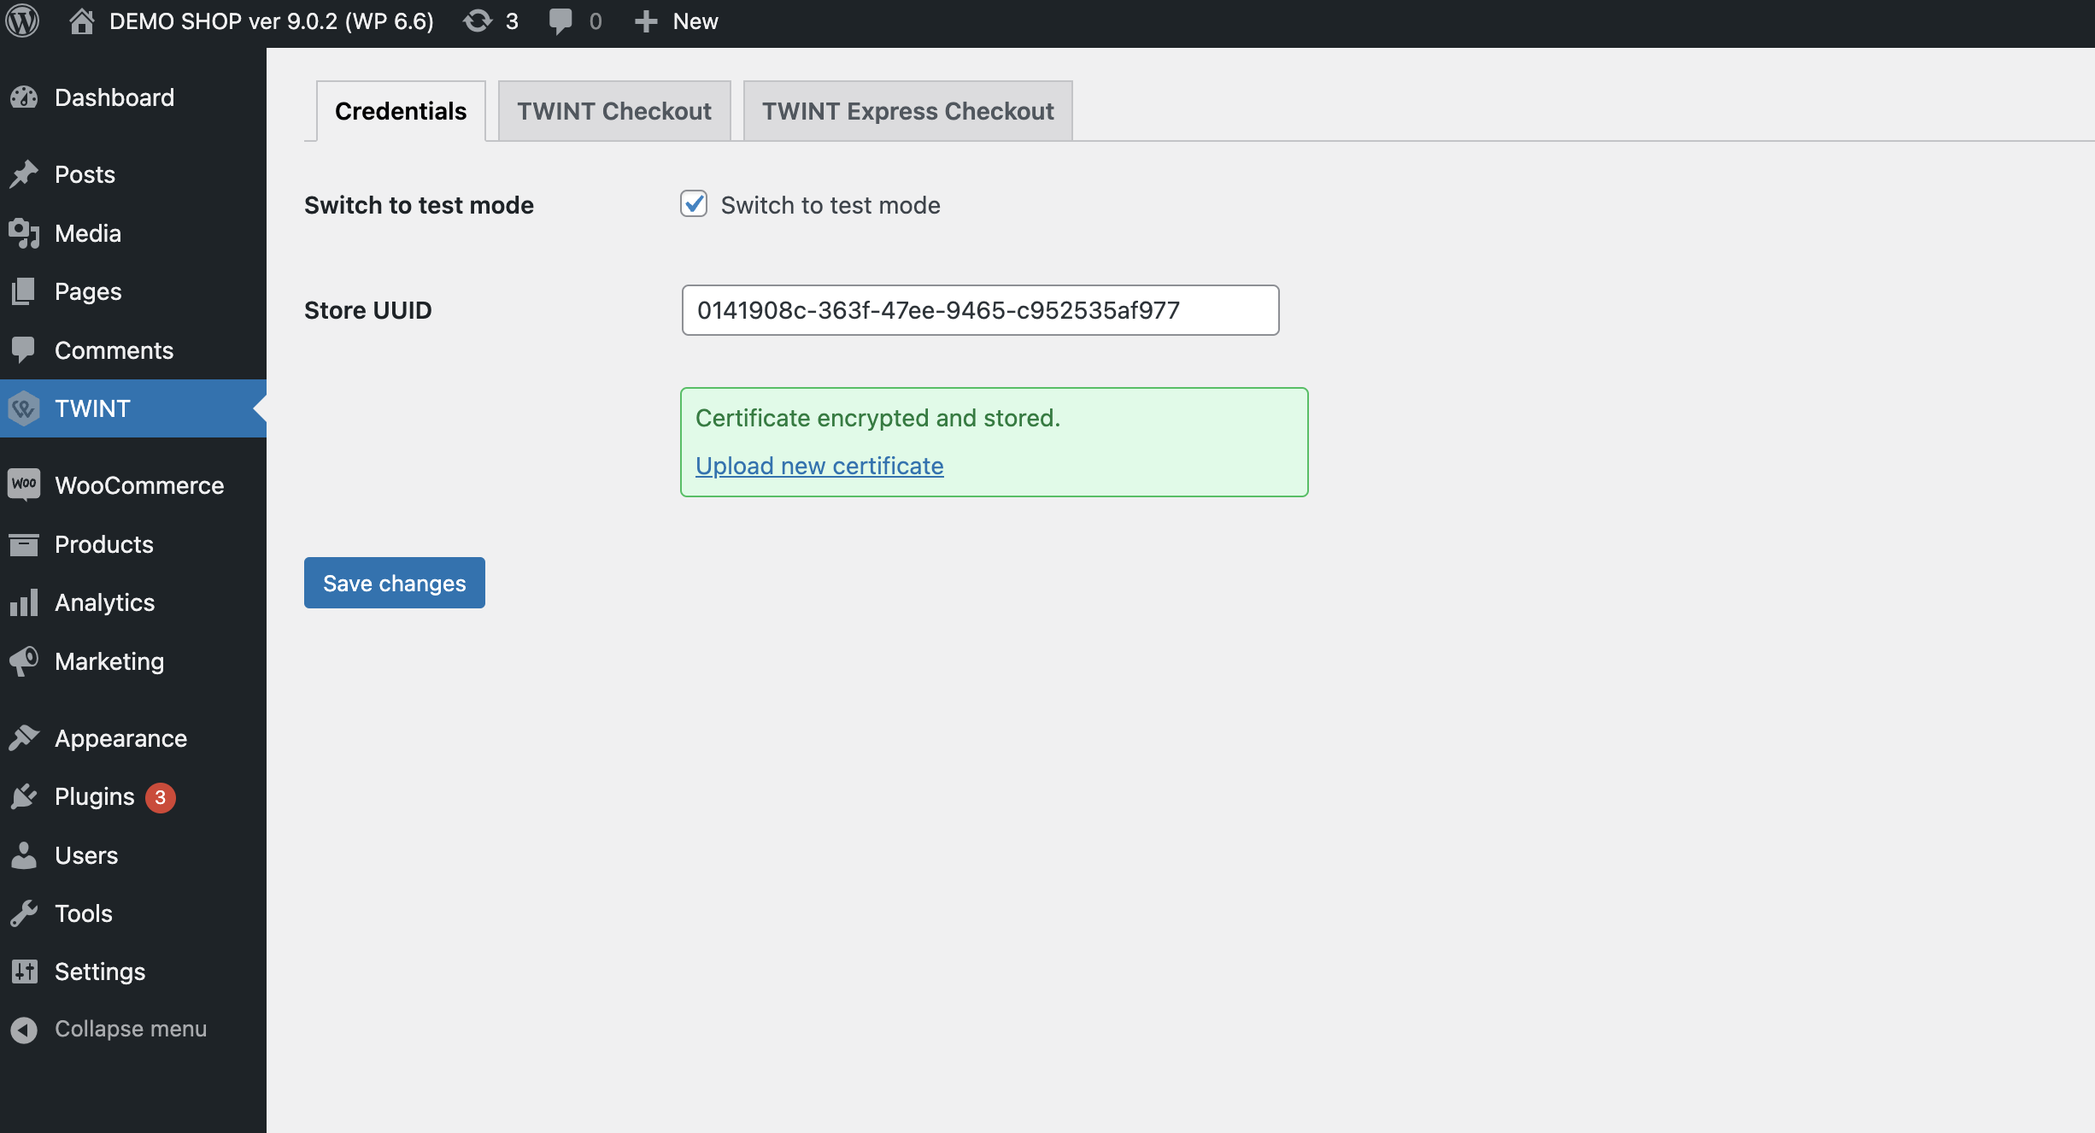
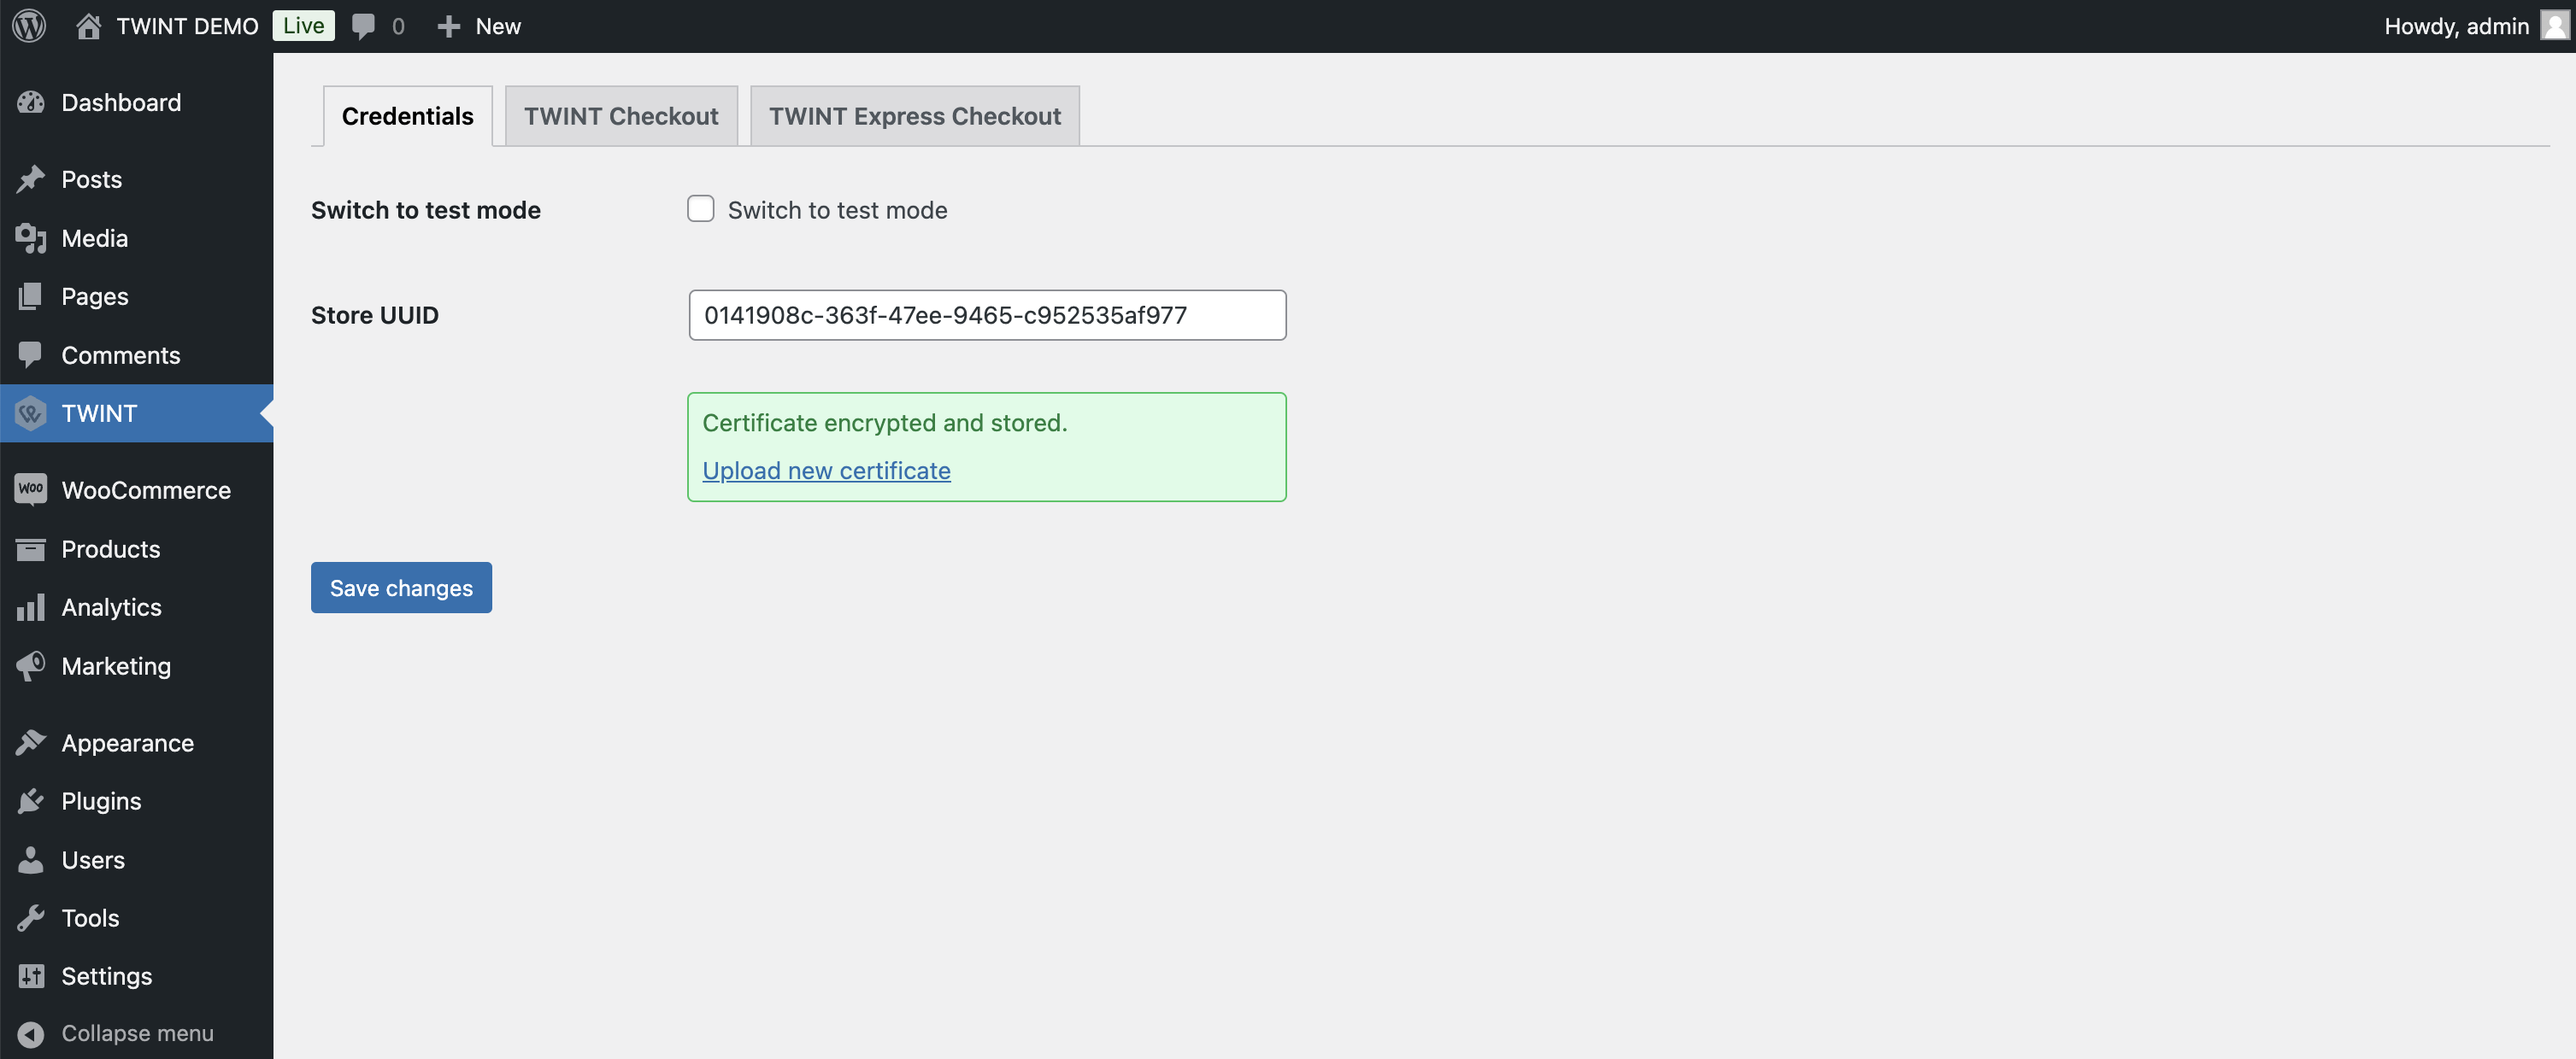
docs: Update installation documentation

diff --git a/docs/twint-payment-plugin-guideline.md b/docs/twint-payment-plugin-guideline.md
@@ -35,7 +35,9 @@
 - Enter the `Store UUID`.
 - Under the `Certificate file` click `Choose file` and browse to the `*.p12` certificate file.
 - Enter the `Certificate password`.
-- **For test environment:** please select the `Test` option under the `Environment` dropdown.
+- The `Switch to Test Mode` checkbox lets you toggle between **Test** and **Production** environments:
+  - **Checked**: Connects to the test environment with test credentials for safe testing.
+  - **Unchecked**: Uses live credentials for real transactions.
 
 <img src="./screenshots/twint-credentials.png" alt="TWINT Credentials" width="900" height="auto">
 
